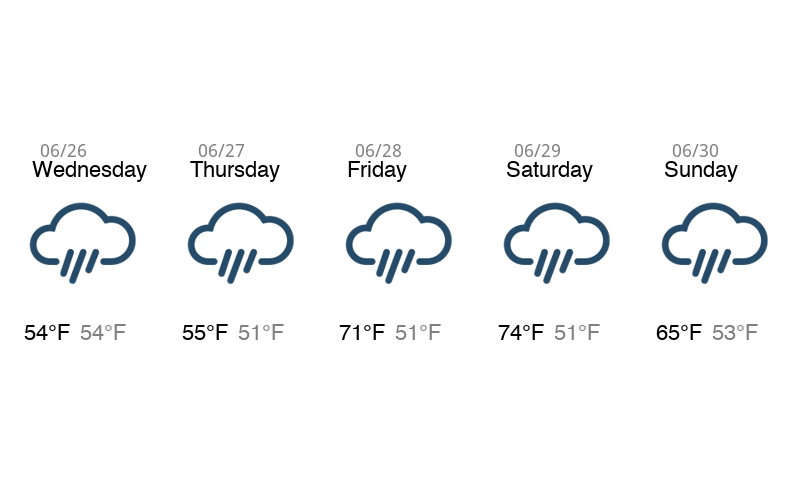
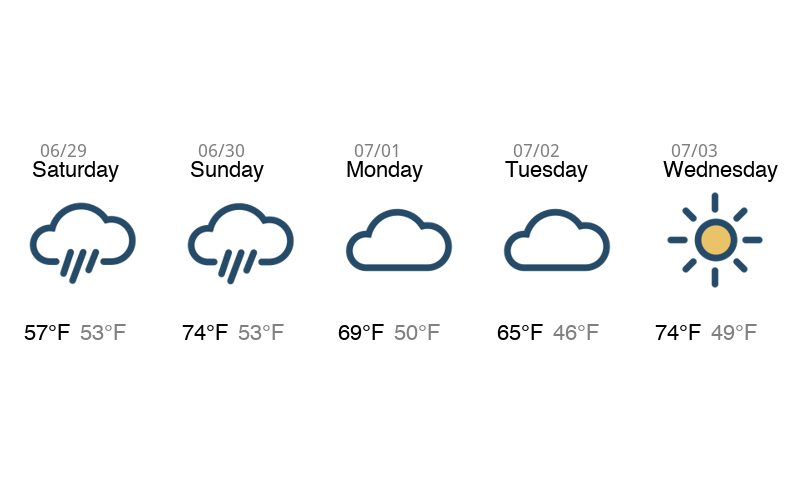
fix sunset issues

diff --git a/assets/tools/forecast_builder/WeatherData.py b/assets/tools/forecast_builder/WeatherData.py
@@ -3,8 +3,14 @@ from datetime import datetime, timedelta
 import requests
 import json
 from PIL import Image, ImageDraw, ImageFont
+import logging
 
 DEBUG = False
+SUNSET_TEST = False
+SUNSET_DELTA = timedelta(hours=15)
+if DEBUG:
+    logging.basicConfig(level=DEBUG)
+
 
 CWD = os.getcwd()
 ICON_DIR = CWD + "/assets/images/weather_icons/"
@@ -15,8 +21,6 @@ CENTER_WIDTH = WIDTH / 2
 CENTER_HEIGHT = HEIGHT / 2
 CENTER = (CENTER_WIDTH, CENTER_HEIGHT)
 SPACING = 8
-TODAY = datetime.now()
-HOUR = int(TODAY.strftime("%H"))
 FONT_SIZE_HEADER = 18
 FONT_SIZE_SUB = 22
 FONT_HEADER = ImageFont.truetype(CWD + "/assets/fonts/Font.ttc", FONT_SIZE_HEADER)
@@ -33,15 +37,16 @@ class WeatherData:
         self.exclude = "hourly, minutely"
         self.unit = "standard"
         self.bg = "light/"
-        self.nightmode = False
+        self.daymode = True
         self.response = {}
         self.icons = {}
+        self.now = datetime.today()
 
-    def get_icons(self, icon_dir: str, background: str, nightmode: bool) -> dict:
-        if nightmode is True:
-            daytime = "NIGHT"
-        else:
+    def get_icons(self, icon_dir: str, background: str, daymode: bool) -> dict:
+        if daymode is True:
             daytime = "DAY"
+        else:
+            daytime = "NIGHT"
         return {
             "clear sky": f"{icon_dir}{background}{daytime} clear sky.png",
             # clouds
@@ -87,6 +92,9 @@ class WeatherData:
 
     def create_forecast(self):
         # need to break this up
+        self.now = datetime.today()
+        if SUNSET_TEST:
+            self.now += SUNSET_DELTA
         pos = SPACING
         forecast_image = Image.new("RGB", (WIDTH, HEIGHT), 0xFFFFFF)
         for i, day in enumerate(self.response[:5]):
@@ -96,22 +104,25 @@ class WeatherData:
             week_day = day["weekday"]
             sunset = day["sunset"]
             sunrise = day["sunrise"]
-            if sunset >= sunrise:
-                sunrise += timedelta(days=1)
-            is_night = sunset <= TODAY or TODAY < sunrise
+            is_day = sunrise <= self.now < sunset
             if DEBUG:
-                print("is_night", is_night)
-                print("sunrise", sunrise)
-                print("sunset: ", sunset)
-                print("now: ", TODAY)
+                logging.info("is_day: %s", is_day)
+                logging.info("sunrise <= %s", sunrise <= self.now)
+                logging.info("sunset < : %s", self.now < sunset)
+                logging.info("sunrise: %s", sunrise)
+                logging.info("sunset: %s", sunset)
+                logging.info("now: %s", self.now)
+                logging.info("mode 1: %s", self.daymode)
             if i == 0:
                 # week_day = "Current"
-                if is_night:
-                    self.nightmode = True
+                if not is_day:
+                    self.daymode = False
                     max_temp = str(day["temp"]["night"]) + "\u2109"
-                else:
-                    self.nightmode = False
-            self.icons = self.get_icons(ICON_DIR, self.bg, self.nightmode)
+            else:
+                self.daymode = True
+            if DEBUG:
+                logging.info("mode 2: %s", self.daymode)
+            self.icons = self.get_icons(ICON_DIR, self.bg, self.daymode)
             condition = self.icons[day["weather"][0]["description"]]
             icon_image = Image.open(condition).convert("RGBA")
             w, h = icon_image.size
